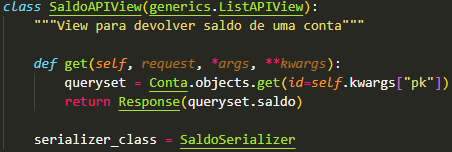
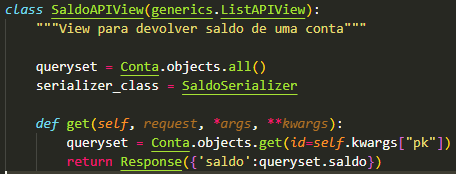
terminando README e consertando retorno do saldo

diff --git a/contas/views/saldo_APIView.py b/contas/views/saldo_APIView.py
@@ -7,8 +7,9 @@ from contas.serializers.saldo_serializer import SaldoSerializer
 class SaldoAPIView(generics.ListAPIView):
     """View para devolver saldo de uma conta"""
 
+    queryset = Conta.objects.all()
+    serializer_class = SaldoSerializer
+
     def get(self, request, *args, **kwargs):
         queryset = Conta.objects.get(id=self.kwargs["pk"])
-        return Response(queryset.saldo)
-
-    serializer_class = SaldoSerializer
+        return Response({'saldo':queryset.saldo})

diff --git a/README.md b/README.md
@@ -139,3 +139,36 @@ Estes dados simulados são muito úteis em certos testes, como, por exemplo, qua
 ![](arquivos_readme/test_busca.png)
 
 #### 9. Usando as funcionalidades:
+
+Para a demonstração das funcionalidades requeridas pelo desafio, será utilizado a aplicação Postman. Lembrando que houve uso de autenticação básica (e permissão) para toda a API. Sem informar credenciais válidas, qualquer recurso irá retornar status code 401 (não autorizado).
+![](arquivos_readme/postman_auto.png)
+<br>
+Para a demonstração, criou-se a conta de superuser abaixo, que será utilizada em todos os exemplos abaixo:
+![](arquivos_readme/postman_criarconta.png)
+##### a) Criação de uma nova conta
+Para criar uma nova conta, fazemos o request com método POST para o host (local host, no teste acima), no recurso “/criarconta/”. Os dados enviados devem constar o nome do cliente e o saldo.
+![](arquivos_readme/postman_criarconta2.png)
+<br>
+Parâmetros inválidos retornam exceções. Por exemplo, tentativa de cadastrar conta com saldo negativo:
+![](arquivos_readme/postman_criarconta3.png)
+##### b) Consulta de todas as contas criadas
+A consulta de todas as contas criadas é feita no mesmo recurso de criação (“/criarconta/”), com uso do método GET.
+![](arquivos_readme/postman_todascontas1.png)
+<br>
+Observar que houve configuração no framework para paginação de vinte objetos por página. Assim, se o total das contas ultrapassar, para acessar as outras páginas, deve ser enviado um parâmetro referente à página seguinte.
+![](arquivos_readme/postman_todascontas2.png)
+
+##### c) Consulta de saldo de uma conta
+Para a consulta de saldo, basta usar o método GET no endpoint “conta/<id>/saldo/”, onde o id representa a conta a se obter o saldo. A princípio, foi experimentado retornar diretamente o valor. Porém, para manter um padrão nos dados, alterou-se para retornar na forma de dicionário.
+![](arquivos_readme/postman_saldo.png)
+
+##### d) Transferência de saldo entre contas
+Para usar o recurso de transferência entre contas, criamos uma nova transferência com o método POST no recurso “criartransacao”, enviando os dados necessários (conta_origem, conta_destino, valor, data_transacao).
+![](arquivos_readme/postman_criartransacao.png)
+##### e) Consulta das transferências de uma conta (recebidos e enviados), com a possibilidade de consultar em um dado período estipulado
+A consulta das transferências ocorre pelo endpoint “conta/transacao/” através do método GET. Ao utilizar sem qualquer parâmetro, irá retornar todas as transações no DB. 
+![](arquivos_readme/postman_trans_all.png)
+<br>
+Há três parâmetros que podem ser usados como filtro: conta, data_inicial e data_final. Podem ser usados juntos ou isolados.
+![](arquivos_readme/postman_trans_conta.png)
+![](arquivos_readme/postman_trans_contadata.png)
